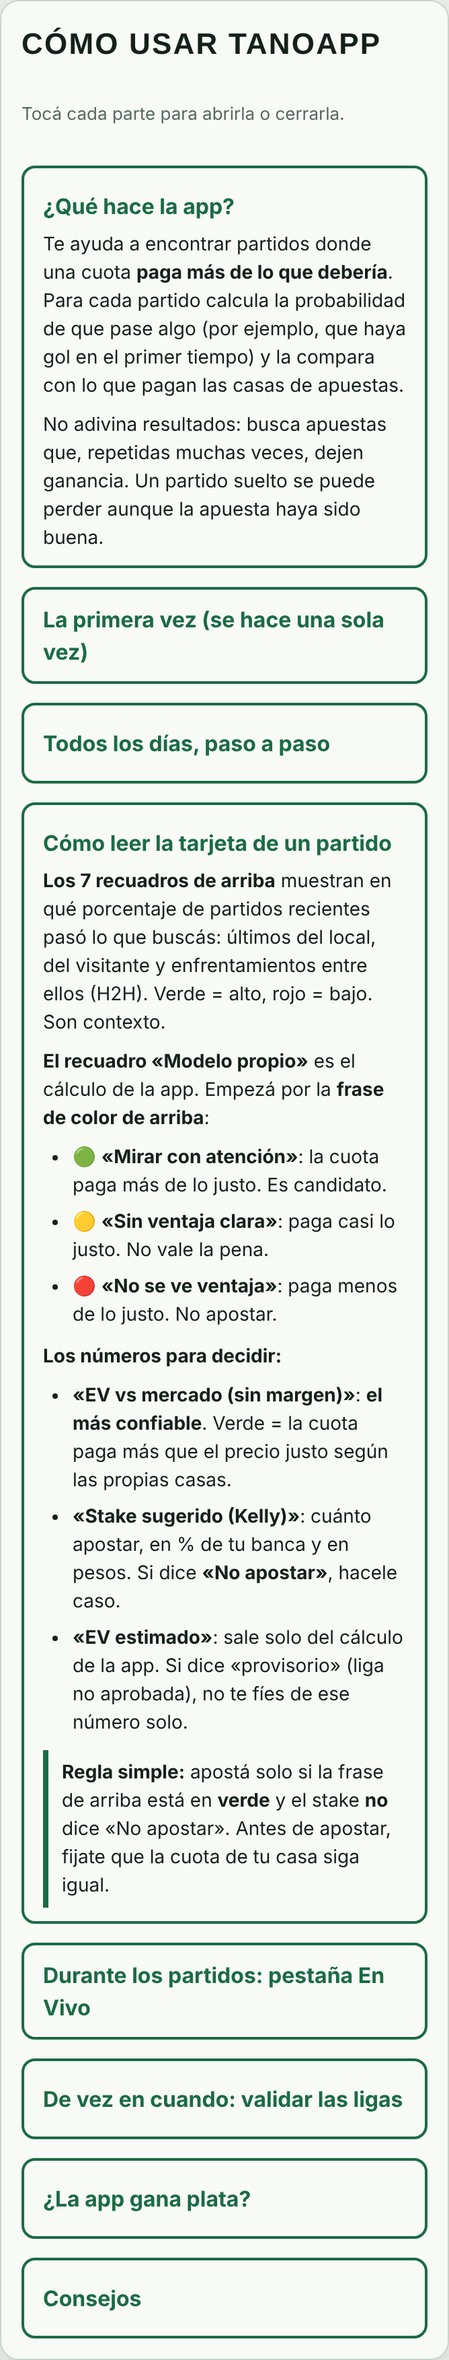
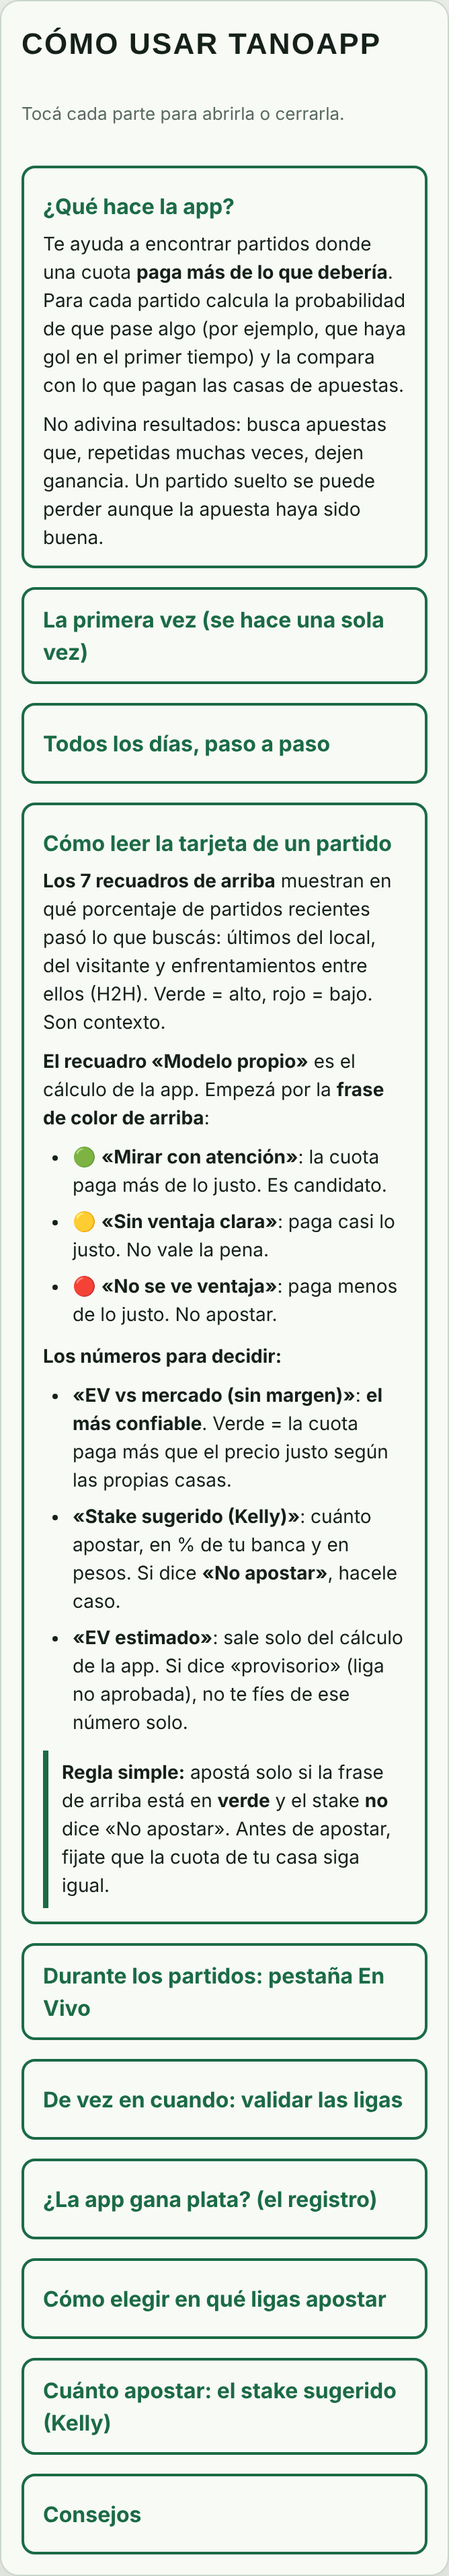
v2: Instrucciones explican la tabla de ligas, el registro, la estrategia por liga y el stake Kelly
Claude-Session: https://claude.ai/code/session_01F9PCJA5ys73suhtmnonKxS

diff --git a/index-v2.html b/index-v2.html
@@ -711,32 +711,69 @@ body.no-hints .poisson-metric .hint{display:none}
 
     <details class="routine">
       <summary>De vez en cuando: validar las ligas</summary>
-      <p>El cálculo de la app no funciona igual de bien en todas las ligas. Validar sirve para saber en cuáles se puede confiar:</p>
+      <p>El cálculo de la app no funciona igual de bien en todas las ligas. Validar sirve para saber en cuáles <b>el cálculo funciona</b>:</p>
       <ol>
-        <li>Marcá las ligas en el <b>Escáner</b>, con el mercado que quieras probar (cada mercado se valida por separado).</li>
-        <li>En la pestaña <b>Validación</b>, tocá <b>«Validar con las ligas marcadas»</b>.</li>
-        <li>Mirá la tabla:
-          <ul>
-            <li>✅ <b>Aprobada</b>: el cálculo funciona bien en esa liga.</li>
-            <li>❌ <b>No aprobada</b>: no le gana a adivinar con el promedio de la liga. Guiate solo por «EV vs mercado».</li>
-            <li>⏳ <b>Faltan datos</b>: todavía hay pocos partidos para saber.</li>
-            <li>🔄 <b>Volver a validar</b>: se aprobó con un método anterior. Validala de nuevo.</li>
-          </ul>
-        </li>
+        <li>En el <b>Escáner</b>, elegí el mercado y marcá las ligas (cada mercado se valida por separado).</li>
+        <li>En la pestaña <b>Validación</b>, tocá <b>«Validar con las ligas marcadas»</b>. Solo se actualizan las ligas marcadas; las demás quedan como estaban.</li>
+        <li>Mirá la tabla <b>«Ligas validadas»</b>. Arriba dice para qué mercado es: para ver otro, cambiá el mercado en el Escáner.</li>
       </ol>
+      <p><b>Qué significa cada columna:</b></p>
+      <ul>
+        <li><b>Estado</b>: ✅ Aprobada (el cálculo funciona en esa liga) · ❌ No aprobada (no le gana a adivinar con el promedio de la liga) · ⏳ Faltan datos (menos de 100 partidos) · 🔄 Volver a validar (se aprobó con un método anterior más generoso; mientras tanto cuenta como no aprobada).</li>
+        <li><b>Partidos</b>: con cuántos partidos se probó. Más partidos, resultado más confiable.</li>
+        <li><b>Mejora</b>: <b>la columna más importante</b>. Cuánto mejor acierta el cálculo que decir siempre el promedio de la liga. Negativa o cerca de 0 = en esa liga no sirve.</li>
+        <li><b>Confianza</b>: si la mejora es real o puede ser suerte. 🟢 Alta = casi seguro que es real · 🟡 Media = puede ser · 🔴 Baja = puede ser pura casualidad. Para aprobar hace falta 🟢.</li>
+        <li><b>Dice / pasa</b>: el promedio que predijo y el que pasó. Que coincidan está bien, pero <b>no alcanza</b>: un cálculo que dice siempre lo mismo también coincide y no sirve para elegir partidos.</li>
+        <li><b>Desvío</b>: el mayor error en algún grupo de partidos. Más bajo = mejor.</li>
+      </ul>
       <p>Con validar una vez por mes alcanza.</p>
     </details>
 
     <details class="routine">
-      <summary>¿La app gana plata?</summary>
-      <p>En la pestaña <b>Validación</b>, abajo, está el <b>registro</b> con todas las predicciones guardadas. Lo más importante es el cuadro <b>«¿Le gana el modelo a las casas?»</b>:</p>
-      <ul>
-        <li>✅ <b>El modelo acierta mejor que las casas</b>: buena señal, sobre todo con más de 300 predicciones.</li>
-        <li>❌ <b>El mercado acierta mejor que el modelo</b>: seguí solo las señales de «EV vs mercado».</li>
-      </ul>
-      <p>Debajo está la tabla <b>«¿En qué ligas le gana a las casas?»</b>: lo mismo, pero liga por liga. Las que dicen <b>✅ Le gana</b> son las mejores para apostar. En el Escáner, la casilla <b>«Solo ligas donde le gana a las casas»</b> muestra solo los partidos de esas ligas.</p>
-      <p><b>Para que una liga sume datos, analizá sus partidos antes de que empiecen</b> (con el partido empezado o terminado no se guarda nada). Conviene analizar muchas ligas todos los días, aunque no apuestes en ellas: así la tabla se llena más rápido.</p>
+      <summary>¿La app gana plata? (el registro)</summary>
+      <p>En la pestaña <b>Validación</b>, abajo, está el <b>registro</b>: cada predicción que la app guardó antes del partido, con su cuota y su resultado. Hay un bloque por mercado. Lo que vas a ver, de arriba hacia abajo:</p>
+      <ol>
+        <li><b>Brier y calibración</b>: qué tan bien acertaron las probabilidades (Brier más bajo = mejor).</li>
+        <li><b>Apuestas y ROI</b>: cuánto habrías ganado apostando 1 unidad en todas, en las EV+ y en las EV+ sólidas. Si el modelo «prometía» mucho más EV del que salió, está siendo optimista.</li>
+        <li><b>«¿Le gana el modelo a las casas?»</b>: <b>el cuadro más importante</b>. Compara, con las mismas predicciones, qué tan bien aciertan el modelo y las casas sin margen. ✅ = el modelo acierta mejor (buena señal con más de 300 predicciones) · ❌ = las casas aciertan mejor (seguí solo «EV vs mercado»).</li>
+        <li><b>«¿En qué ligas le gana a las casas?»</b>: lo mismo, liga por liga (se explica en la parte siguiente).</li>
+        <li><b>«¿Dónde se gana y dónde se pierde?»</b> (tocalo para abrirlo): el ROI separado por rango de EV, por EV vs mercado y por liga. Sirve para ver si hay un rango o una liga donde la ganancia se repite. Con grupos de menos de ~50 apuestas, los números saltan mucho por azar.</li>
+        <li><b>Simulación de la banca</b>: qué le habría pasado a tu banca apostando todas las señales EV+ con el stake sugerido (¼ Kelly) y con un stake fijo del 1%. «Peor caída» es lo máximo que bajó la banca desde su punto más alto. Si Kelly sale peor que el stake fijo, el modelo todavía no tiene ventaja real.</li>
+      </ol>
       <p><b>Paciencia:</b> con pocas decenas de apuestas los resultados son pura suerte. Hacen falta <b>cientos</b> para saber si el sistema funciona.</p>
+    </details>
+
+    <details class="routine">
+      <summary>Cómo elegir en qué ligas apostar</summary>
+      <p>La ventaja no está en todas las ligas: está en saber <b>en cuáles el modelo le gana a las casas</b>. Para eso está la tabla <b>«¿En qué ligas le gana a las casas?»</b> (pestaña Validación, dentro del registro).</p>
+      <p><b>Cómo leerla:</b></p>
+      <ul>
+        <li>✅ <b>Le gana</b>: en esa liga el modelo acierta mejor que las casas, con confianza alta y al menos 50 predicciones. <b>Son las ligas para apostar.</b></li>
+        <li>🟡 <b>Puede ser</b>: da positivo, pero todavía puede ser suerte. Seguí sumando datos.</li>
+        <li>❌ <b>No le gana</b>: las casas aciertan igual o mejor. No apuestes ahí por el cálculo propio.</li>
+        <li>⏳ <b>Faltan datos</b>: menos de 50 predicciones liquidadas.</li>
+        <li><b>Habilidad vs mercado</b>: cuánto mejor (positivo) o peor (negativo) acierta el modelo que las casas en esa liga.</li>
+      </ul>
+      <p><b>No es lo mismo que «Ligas validadas»:</b> esa tabla dice si el cálculo funciona mejor que el promedio de la liga; esta dice si le gana <b>a las casas</b>, que es mucho más difícil y es lo que hace falta para ganar plata.</p>
+      <p><b>Cómo usarla todos los días:</b></p>
+      <ol>
+        <li>Analizá en el Escáner <b>muchas ligas, antes de que empiecen los partidos</b>, aunque no apuestes en ellas. Cada partido analizado con cuota suma una predicción a su liga. Con el partido empezado o terminado no se guarda nada.</li>
+        <li>Al día siguiente tocá <b>«Liquidar registro»</b>.</li>
+        <li>Cuando ya tengas ligas con ✅, en el Escáner marcá <b>«Solo ligas donde le gana a las casas»</b>: te muestra solo los partidos de esas ligas. La app sigue guardando las predicciones de todos los partidos analizados, así las demás ligas siguen sumando.</li>
+      </ol>
+      <p>Al principio la tabla va a estar casi toda en ⏳. Lleva semanas o meses llenarla.</p>
+    </details>
+
+    <details class="routine">
+      <summary>Cuánto apostar: el stake sugerido (Kelly)</summary>
+      <p>Kelly es una fórmula que dice <b>qué parte de tu banca apostar según cuánta ventaja hay</b>: mucha ventaja, más plata; poca, menos; ninguna, nada.</p>
+      <p>Como la probabilidad es una estimación, la app usa Kelly con frenos:</p>
+      <ul>
+        <li><b>En ligas aprobadas</b> usa un promedio entre el cálculo de la app y las casas, y apuesta <b>¼</b> de lo que diría Kelly completo.</li>
+        <li><b>En ligas no aprobadas</b> usa <b>solo las chances de las casas</b> (el cálculo propio todavía no se ganó la confianza) y apuesta <b>⅛</b>. Si no hay precio de las casas, dice «No apostar».</li>
+        <li><b>Nunca más del 3%</b> de la banca en un partido.</li>
+      </ul>
+      <p>Para verlo en pesos, cargá tu banca en la pestaña Validación («Tu banca para apostar»). Se guarda solo en ese dispositivo: en la compu y en el teléfono se carga por separado.</p>
     </details>
 
     <details class="routine">
